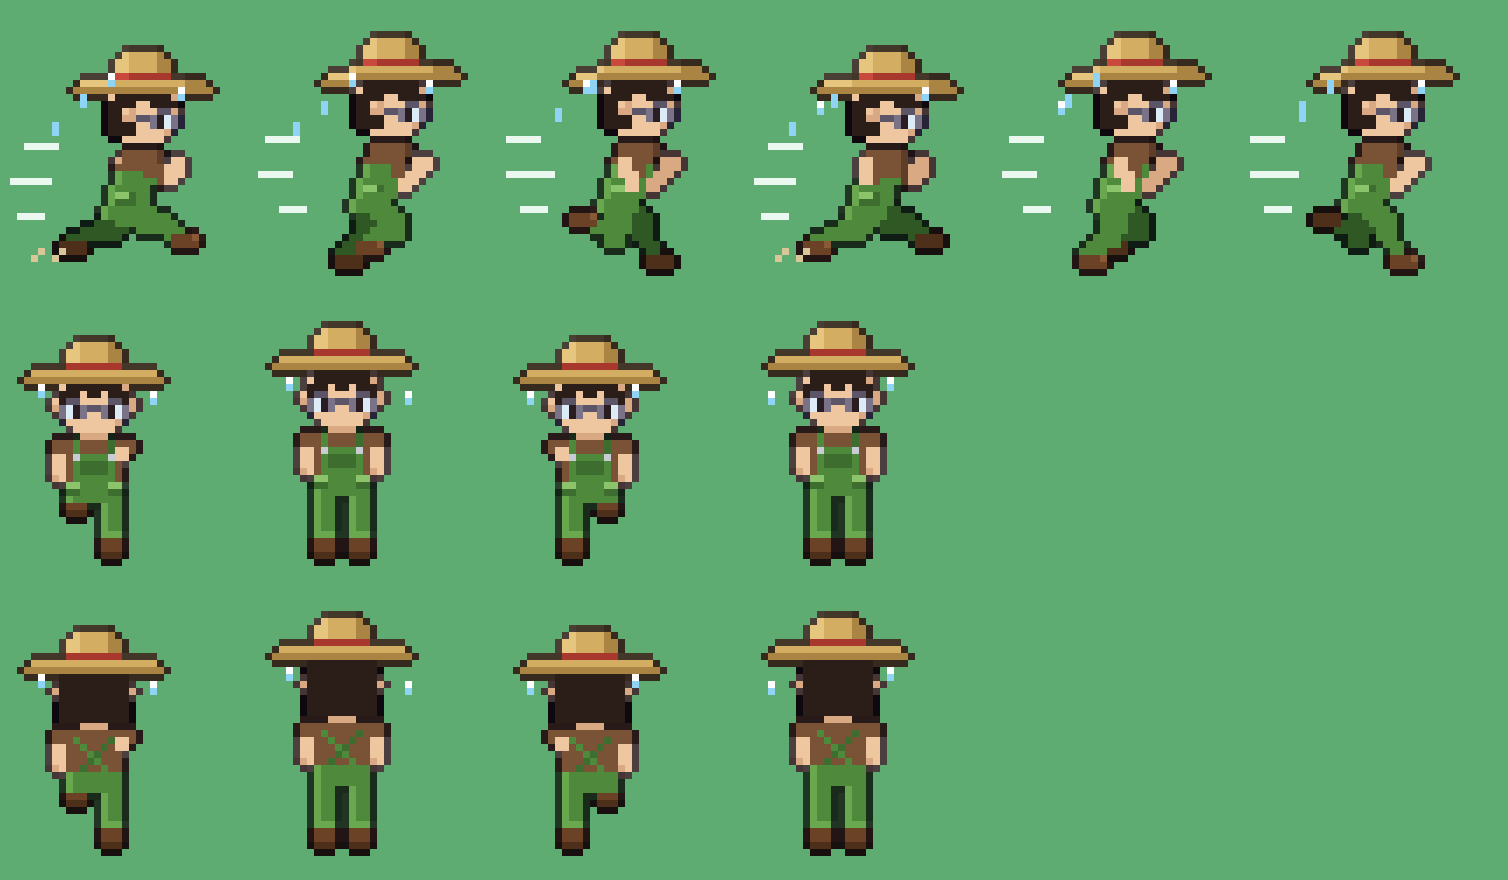
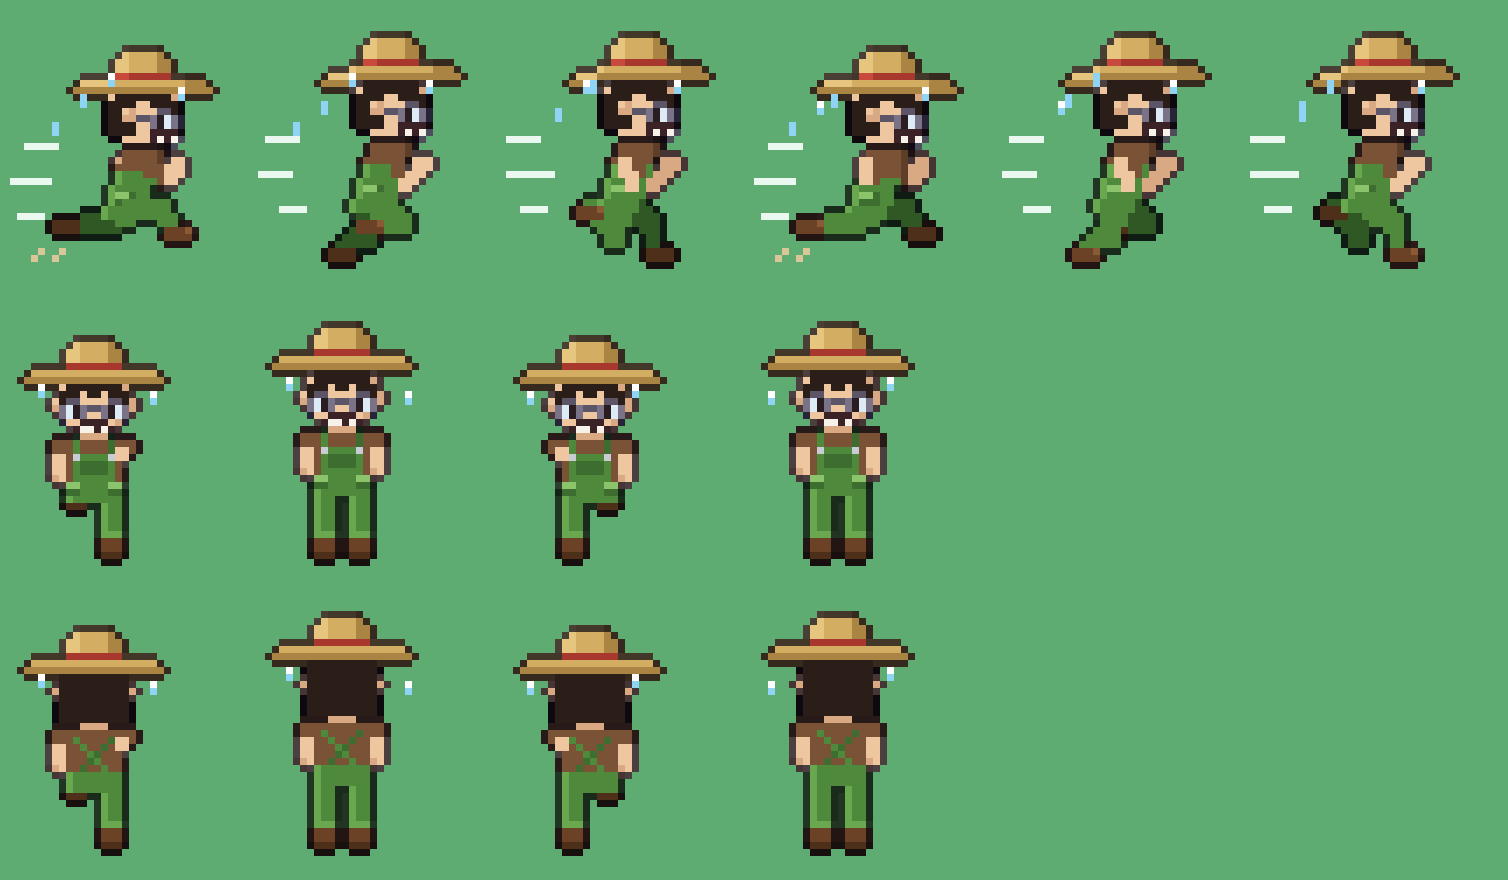
Farmer sprint: higher knees, gritted-teeth strained face [skip ci]
Claude-Session: https://claude.ai/code/session_01DcRsQ77FYXtVXyNejf31QG

diff --git a/tools/farmer_run.py b/tools/farmer_run.py
@@ -21,8 +21,11 @@ def head_side(b,hx,hy,f,air):
     R(10+hx,6+hy,2,1,P['frameD']);X(9+hx,7+hy,P['frame']);X(12+hx,7+hy,P['frame']);X(9+hx,8+hy,P['frame']);X(12+hx,8+hy,P['frame'])
     X(11+hx,7+hy,P['lens']);X(11+hx,8+hy,P['lens']);X(7+hx,7+hy,P['frameD']);X(8+hx,7+hy,P['frameD'])
     X(10+hx,7+hy,P['eye']);X(10+hx,8+hy,P['eye'])
-    # determined brow
-    X(10+hx,5+hy,P['hair']);
+    # strained brow + gritted teeth
+    X(10+hx,5+hy,P['hair']);X(11+hx,5+hy,P['hair']);X(12+hx,6+hy,P['hair'])
+    TD=C('#3a2226');TW=C('#f6f2ea')
+    X(9+hx,9+hy,TD);X(10+hx,9+hy,TD);X(11+hx,9+hy,TD);X(12+hx,9+hy,TD)
+    X(10+hx,10+hy,TW);X(11+hx,10+hy,TD);X(12+hx,10+hy,TW);X(9+hx,10+hy,TD)
     # hat lifts off on airborne frames
     hy2=hy-(1 if air else 0)
     for y,a,z in((-2,5,10),(-1,4,11),(0,4,11)):
@@ -40,8 +43,8 @@ def run_side(f,N=6,fx=True):
     L1,L2=4.5,4.5
     def leg(tt,col,colS,far):
         p=2*math.pi*tt
-        th=math.radians(10+60*math.cos(p))                 # thigh: up to 70° forward (high knee)
-        kb=math.radians(15+95*max(0,math.sin(p)))          # knee bends hard during the forward swing
+        th=math.radians(15+80*math.cos(p))                 # thigh: up to ~95° forward (very high knee)
+        kb=math.radians(20+110*max(0,math.sin(p))+40*max(0,math.cos(p)))  # tucked shin under the raised knee
         kx,ky=hip[0]+L1*math.sin(th),hip[1]+L1*math.cos(th)
         a2=th-kb;fx_,fy_=kx+L2*math.sin(a2),ky+L2*math.cos(a2)
         line(b,hip[0],hip[1],kx,ky,colS if far else col,3)
@@ -93,7 +96,7 @@ def run_front(d,f):
     knee=[1,0,2,0][f]   # 1: left knee up, 2: right knee up
     for lx,side in((4,1),(9,2)):
         if knee==side:
-            R(lx,18+Y,3,3,P['ov']);R(lx,20+Y,3,1,P['ovL']);R(lx,21+Y,3,2,P['boot']);R(lx,22+Y,3,1,P['bootS'])
+            R(lx,17+Y,3,2,P['ovL']);R(lx,19+Y,3,1,P['ov']);R(lx,20+Y,3,2,P['boot']);R(lx,21+Y,3,1,P['bootS'])
         else:
             R(lx,20,3,5,P['ov']);R(lx,20,1,5,P['ovL']);R(lx,25,3,1,P['ovL']);R(lx,26,3,3,P['boot']);R(lx,28,3,1,P['bootS'])
     R(4,12+Y,8,6,P['shirt']);R(4,18+Y,8,3,P['ov']);R(4,18+Y,1,3,P['ovL'])
@@ -119,6 +122,9 @@ def run_front(d,f):
             R(x0+1,6+Y,2,1,P['frameD']);X(x0,7+Y,P['frame']);X(x0+3,7+Y,P['frame']);X(x0,8+Y,P['frame']);X(x0+3,8+Y,P['frame'])
             X(x0+1,7+Y,P['lens']);X(x0+2,7+Y,P['lens']);X(x0+1,8+Y,P['lens']);X(x0+2,8+Y,P['lens'])
         X(7,7+Y,P['frameD']);X(8,7+Y,P['frameD']);X(5,7+Y,P['eye']);X(5,8+Y,P['eye']);X(10,7+Y,P['eye']);X(10,8+Y,P['eye'])
+        TD=C('#3a2226');TW=C('#f6f2ea')
+        for x in range(6,10):X(x,9+Y,TD);X(x,10+Y,TW)
+        X(5,10+Y,TD);X(10,10+Y,TD);X(8,10+Y,TD)
     else:
         for y in range(3,11):
             for x in range(3,13):X(x,y+Y,P['hair'])

diff --git a/assets/characters/farmer/README.md b/assets/characters/farmer/README.md
@@ -10,7 +10,7 @@ Generated by `tools/farmer.py` (Python + Pillow). Not in the game yet.
 - Based on the user's farmer reference (outfit), but the inner shirt is brown instead of light green.
 
 ## Sprint run (`farmer_run_sheet.png`, previews `farmer_run.png` (APNG) / `.gif`)
-"Absolutely booking it": the body leans forward, with wide strides, high knees (thigh up to ~70°), hard-pumping bent arms (opposite to the legs), a bounce/airborne lift, the hat lifting off on airborne frames, sweat drops flying back off the head, white speed lines behind, and dust at foot contact.
+"Absolutely booking it": the body leans forward, with wide strides, **very high knees** (thigh swings up to ~95°, shin tucked under), hard-pumping bent arms (opposite to the legs), a bounce/airborne lift, the hat lifting off on airborne frames, sweat drops flying back off the head, white speed lines behind, and dust at foot contact. **Strained gritted-teeth face** while sprinting (dark lip line over white teeth with a gap, furrowed brow in the side view). The expression idea came from an anime reference; only the expression was used.
 - Row 1: side sprint, 6 frames, 34×40 (facing right; left = mirror).
 - Rows 2–3: front and back sprint, 4 frames each, 24×38: alternating high knees, one fist up by the chest, sweat flying off both sides.
 - Generated by `tools/farmer_run.py` (imports `tools/farmer.py`). Effects are drawn after the outline pass so they stay light.
